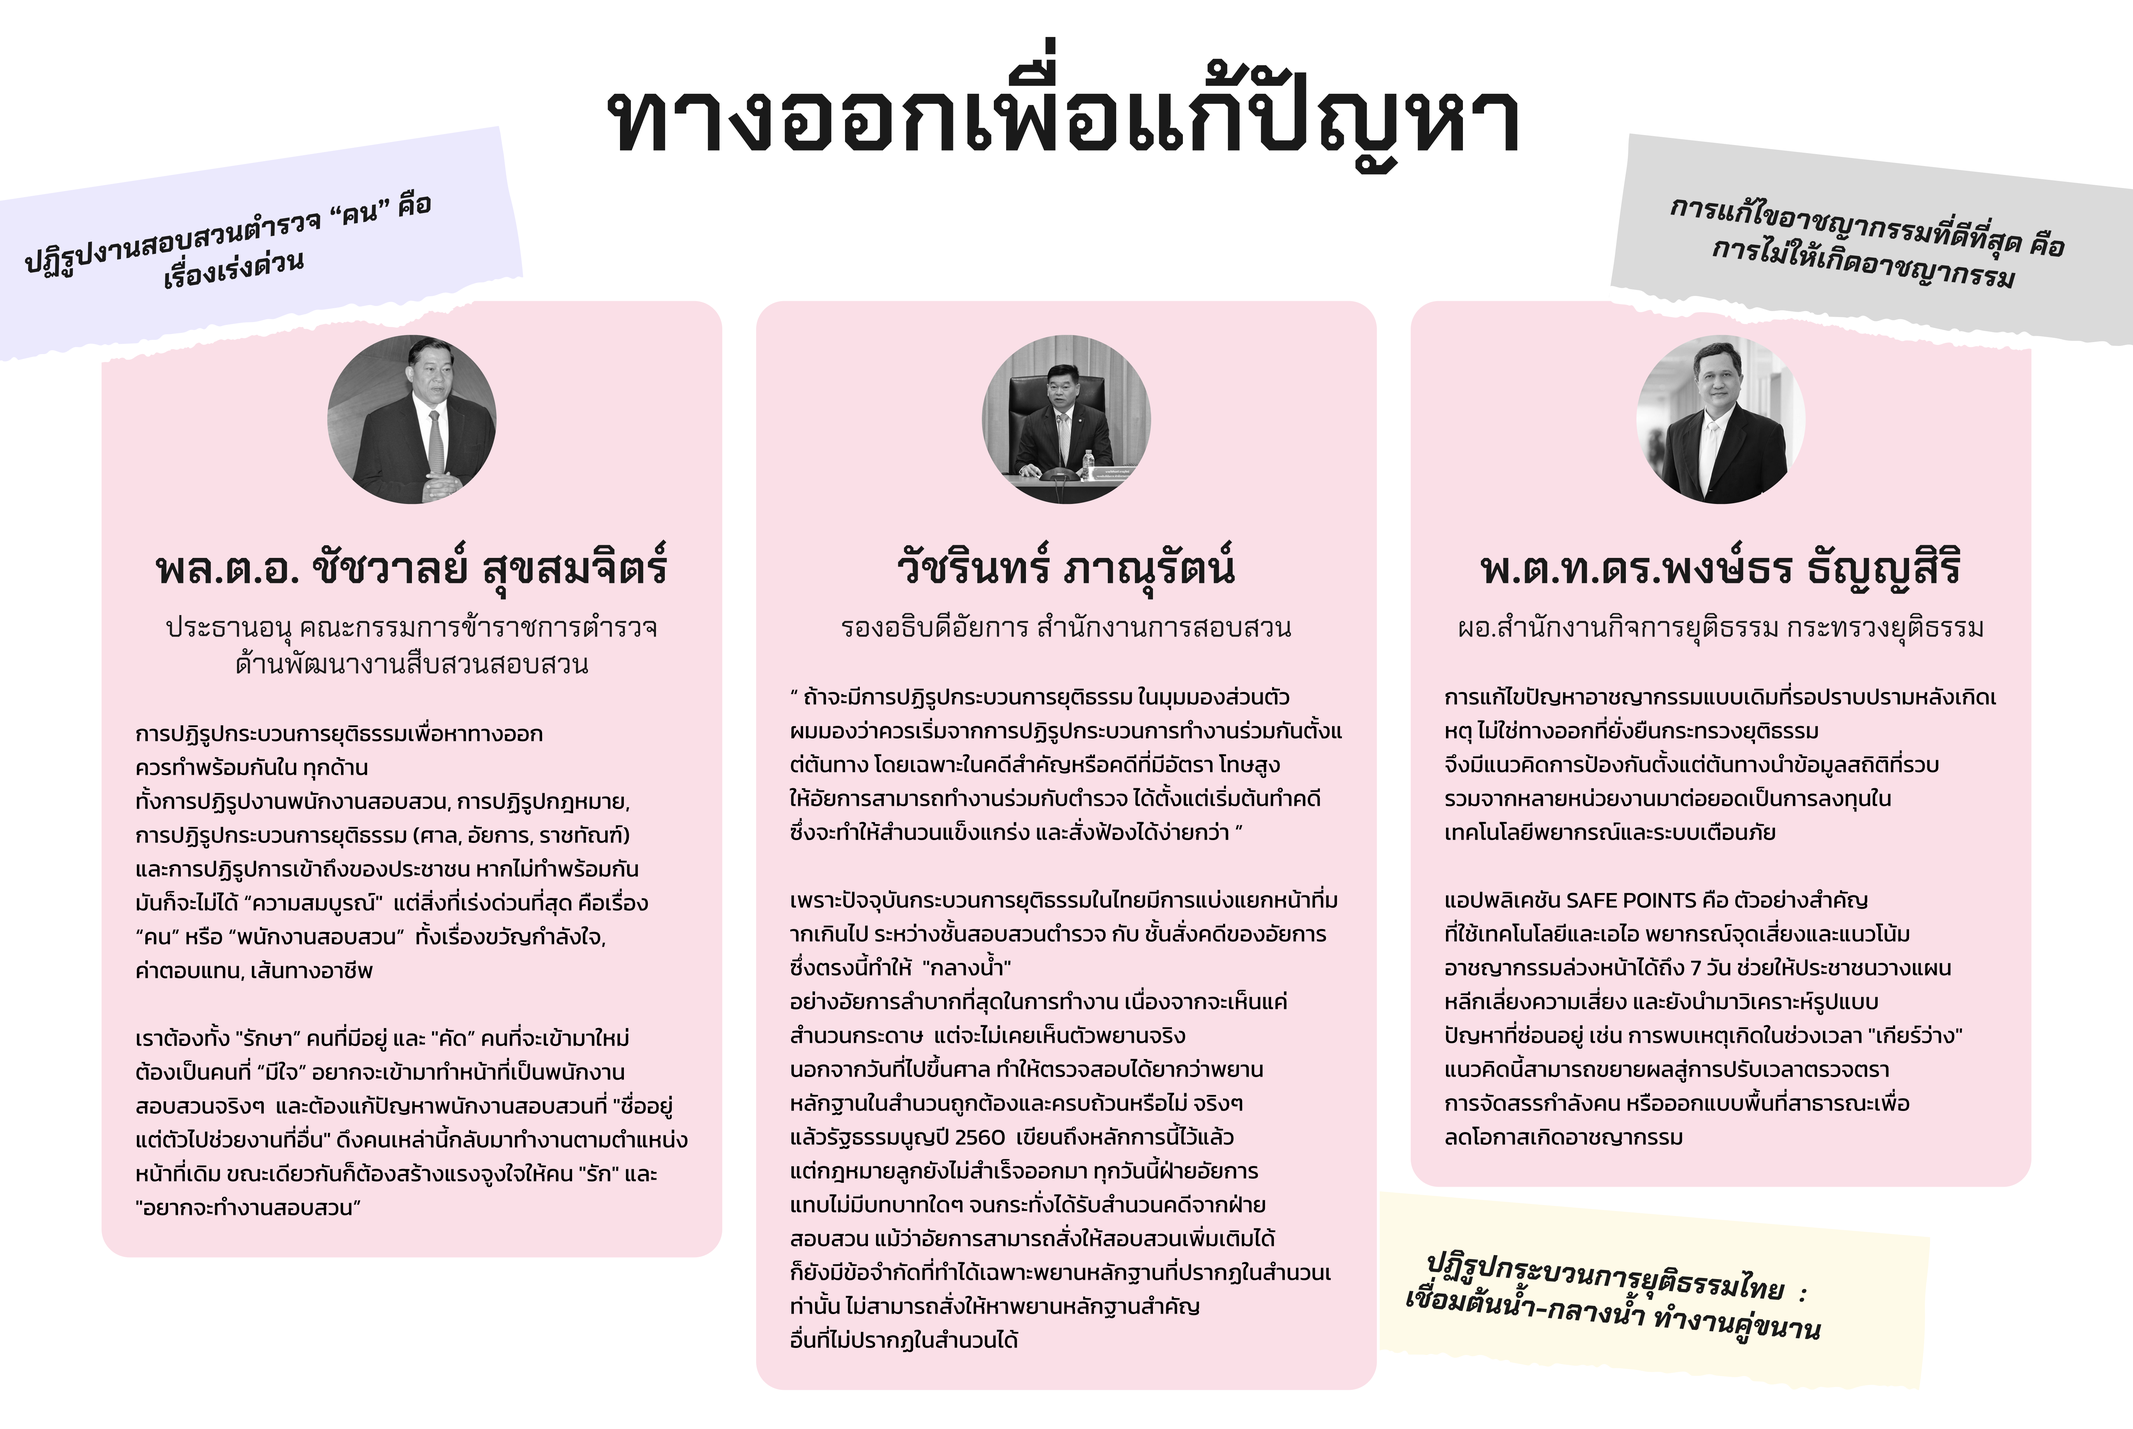
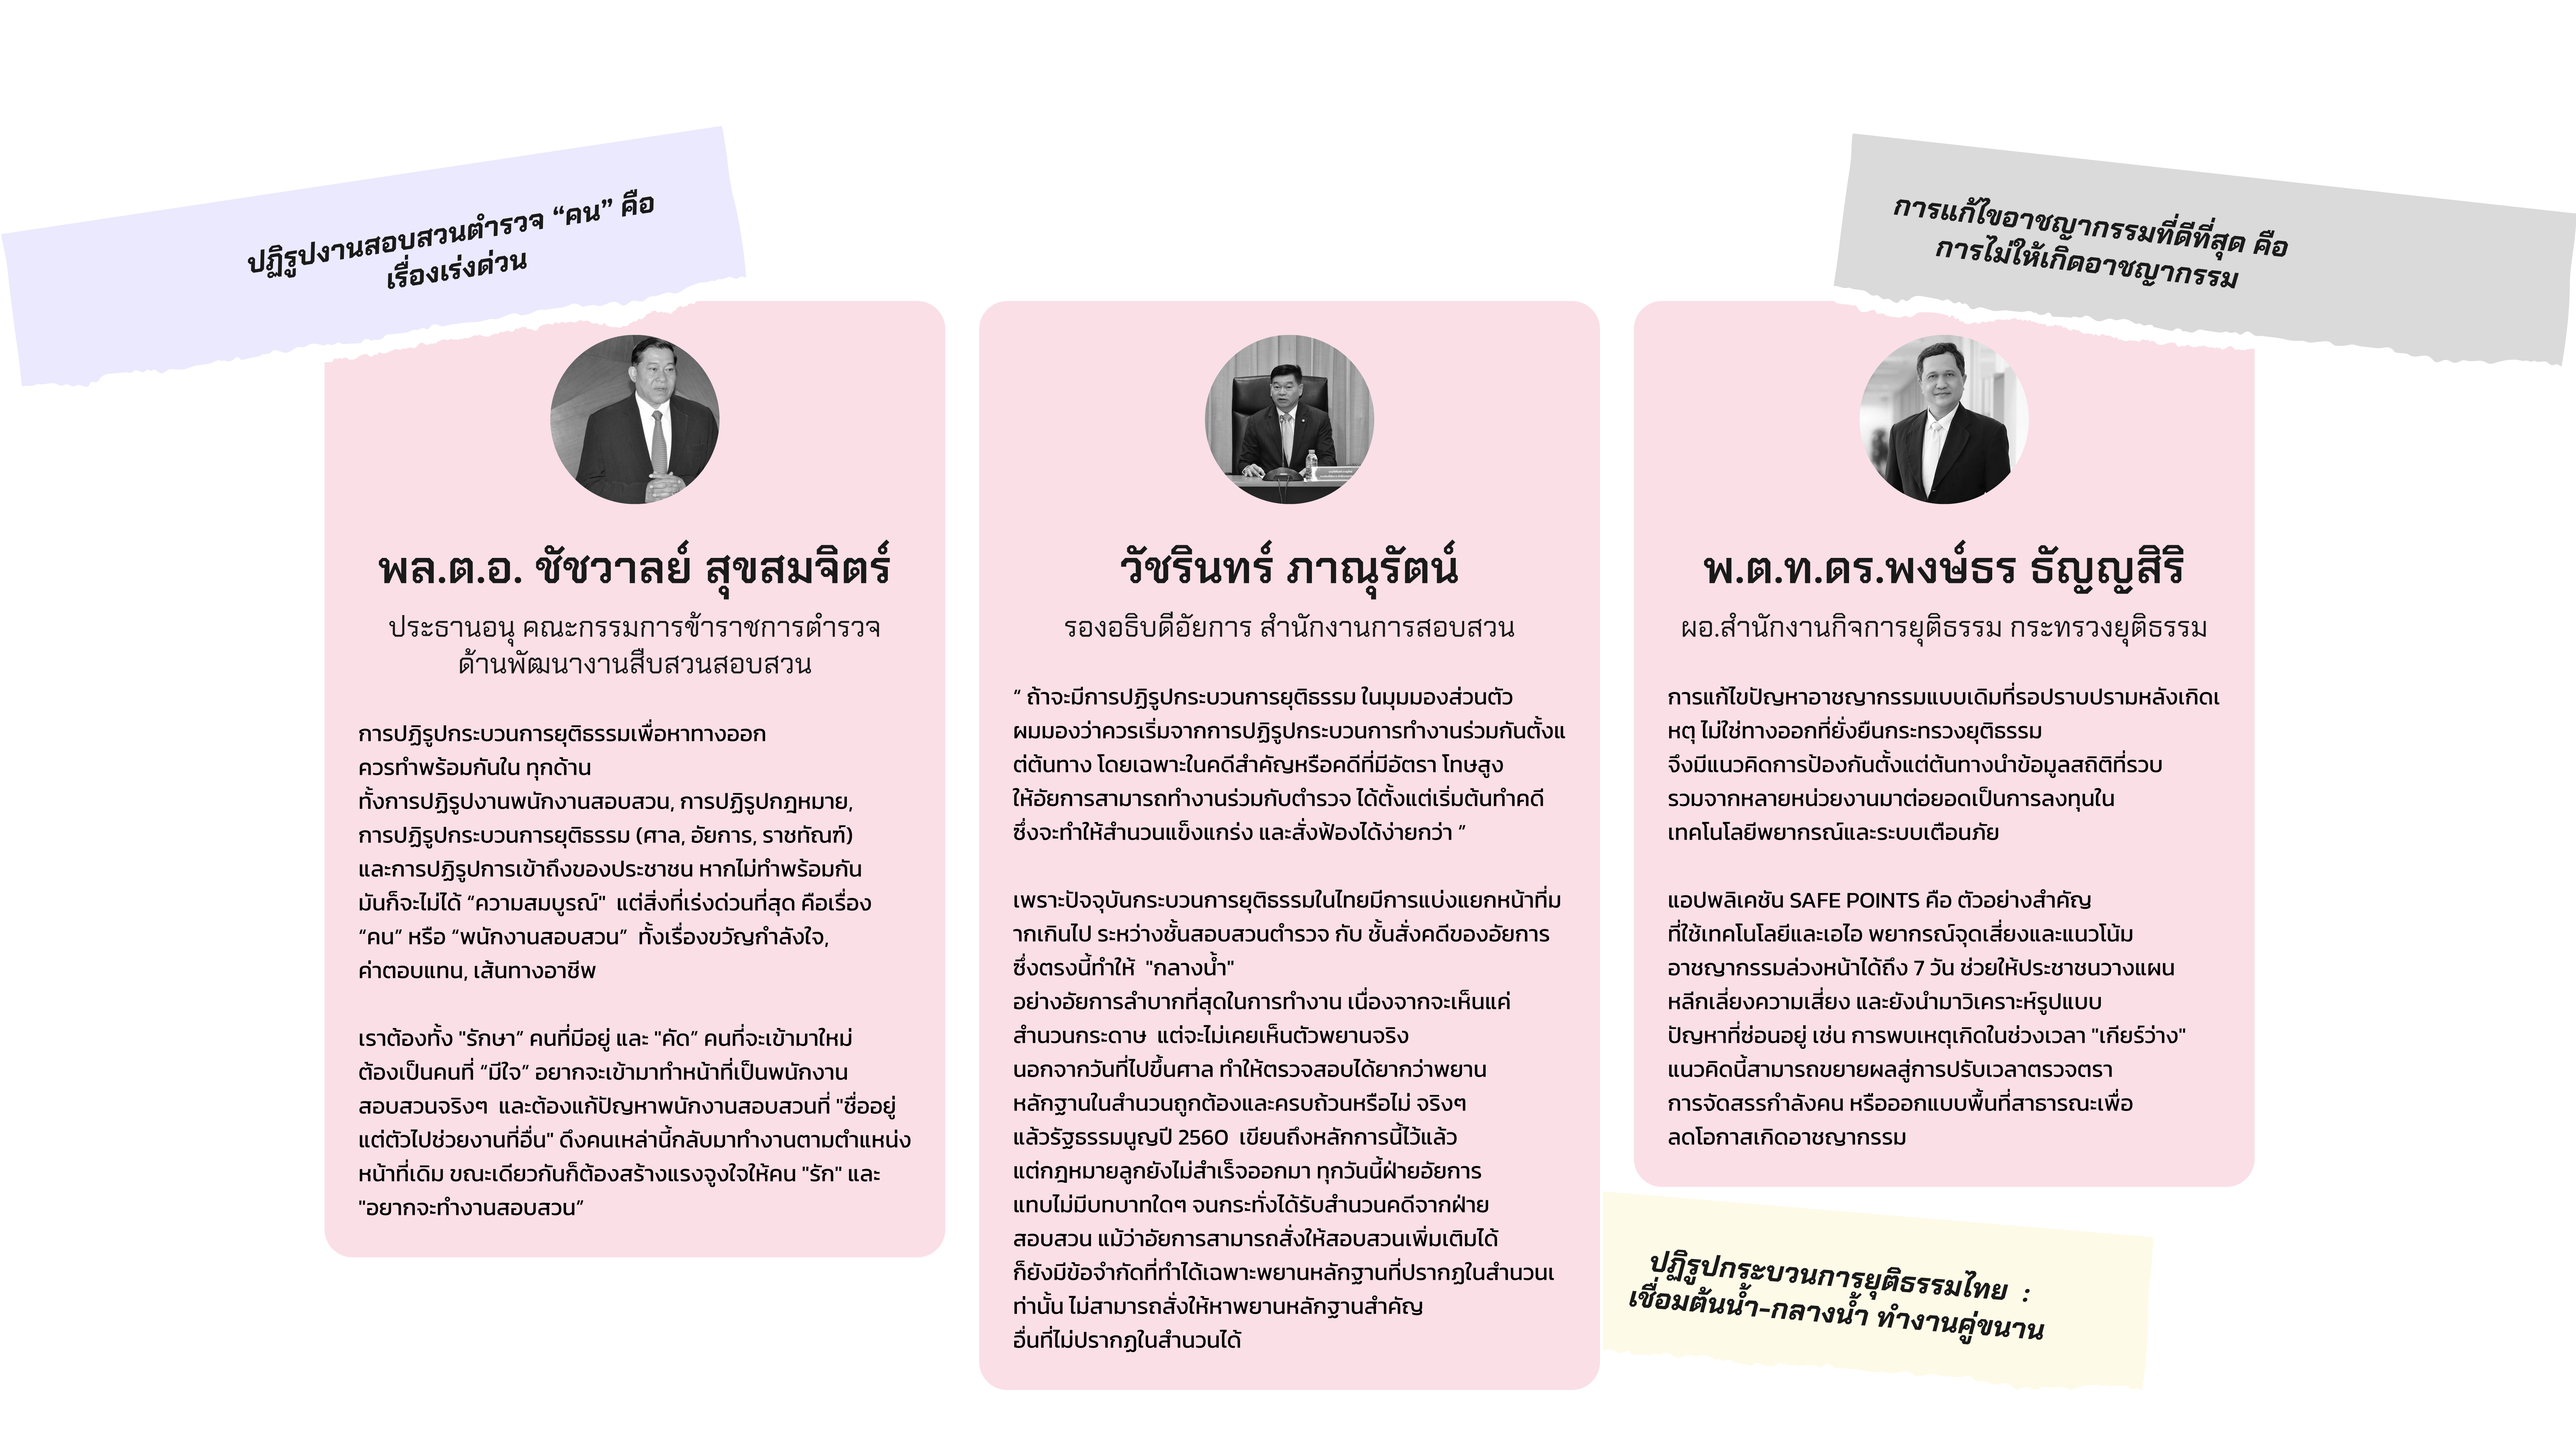
Use text in header

Changed region(s): [[0.0, 0.0933, 1.0, 0.9951], [0.2812, 0.0311, 0.7188, 0.1244], [0.4375, 0.2488, 0.5625, 0.3421]]

diff --git a/index.html b/index.html
@@ -2538,6 +2538,9 @@
     </section>
 
     <section id="section-potential-solutions" class="section h-[800px] bg-transparent">
+      <div class="flex font-[ChakraPetch-SemiBold] text-6xl text-white justify-center translate-y-[50%]">
+        ทางออกเพื่อแก้ปัญหา
+      </div>
     </section>
 
     <section id="section-credit" class="relative section h-[1850px] bg-transparent">
